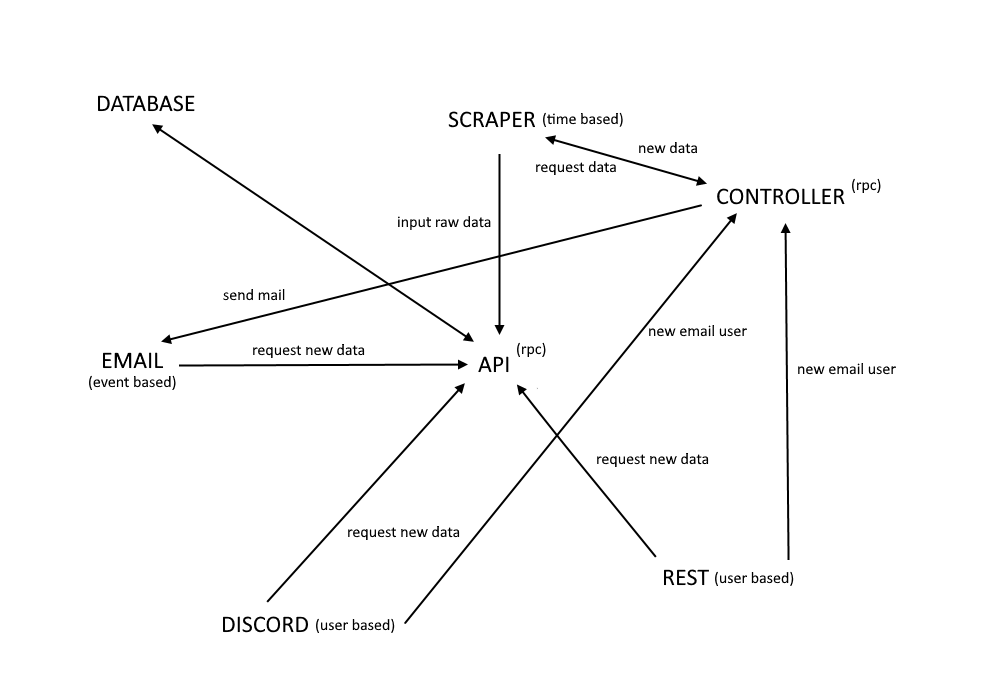
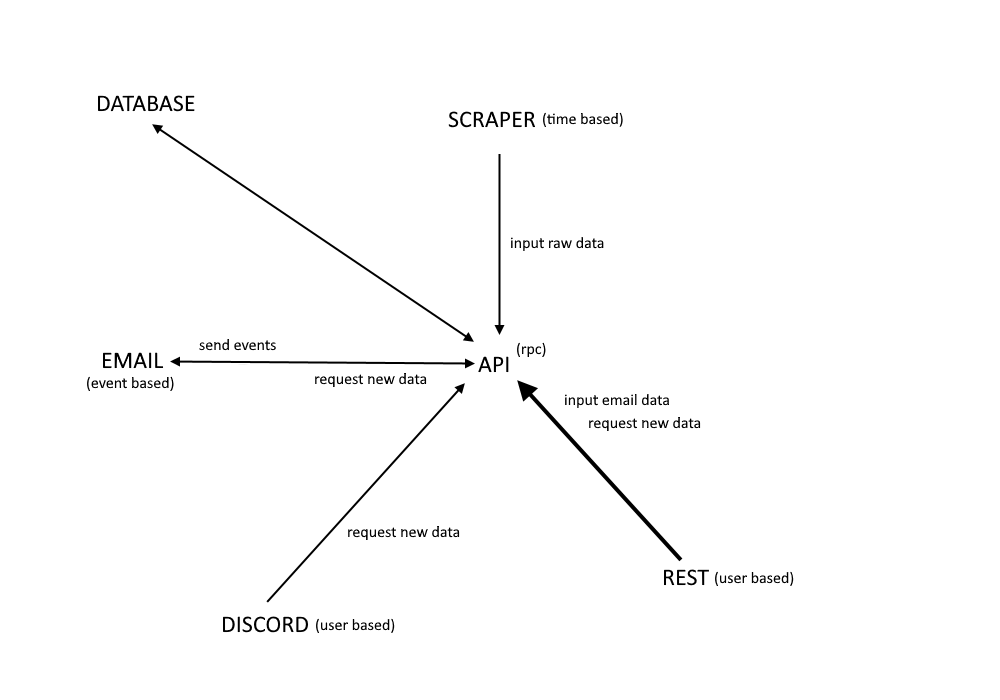
different schema

diff --git a/src/menza_email.py b/src/menza_email.py
@@ -4,20 +4,23 @@ from bs4 import *
 import smtplib
 import ssl
 
+from xmlrpc.server import SimpleXMLRPCServer
+from xmlrpc.server import SimpleXMLRPCRequestHandler
+class RequestHandler(SimpleXMLRPCRequestHandler):
+    rpc_paths = ('/RPC2',)
 class Email:
     PORT = 465
     EMAIL = "racunalni.praktikum.smtp@gmail.com"
     PASSWORD = "9Nq5BkS4dWDz7faU"
 
     def __init__(self) -> None:
-
         context = ssl.create_default_context()
         self.server = smtplib.SMTP_SSL("smtp.gmail.com", Email.PORT, context=context)
         self.server.login(Email.EMAIL, Email.PASSWORD) 
 
         self.api = xmlrpc.client.ServerProxy('http://127.0.0.1:8000')
 
-    def send(self):
+    def send_all(self) -> bool:
         emails = self.api.read_email()
         data = self.api.read_menza()
 
@@ -28,6 +31,39 @@ Data: """+data
 
         for m in emails:
             self.server.sendmail(Email.EMAIL, m, message)
+        return True
+    
+    def send_verification(self,email : str) -> bool:
+
+        link = "test"
+        message = """\
+Subject: verify email
+
+link to confirm: """+link
+
+        self.server.sendmail(Email.EMAIL, email, message)
+        return True
+    
+    def send_confirmation(self, email : str) -> bool:
+        message = """\
+Subject: Thank you
+
+Thank you"""
+
+        self.server.sendmail(Email.EMAIL, email, message)
+        return True
+
             
+def main():
+    # Create server
+    with SimpleXMLRPCServer(('127.0.0.1', 8080),
+                            requestHandler=RequestHandler) as server:
+        server.register_introspection_functions()
 
+        server.register_instance(Email())
 
+        # Run the server's main loop
+        server.serve_forever()
+
+if __name__ == "__main__": 
+    main()
